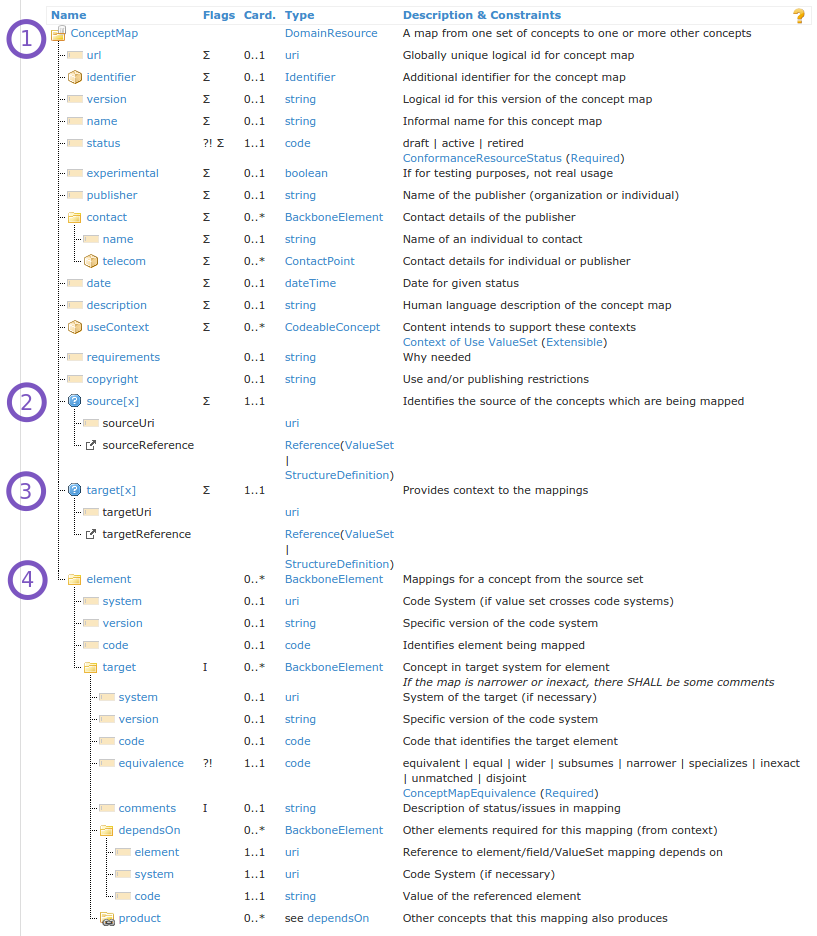
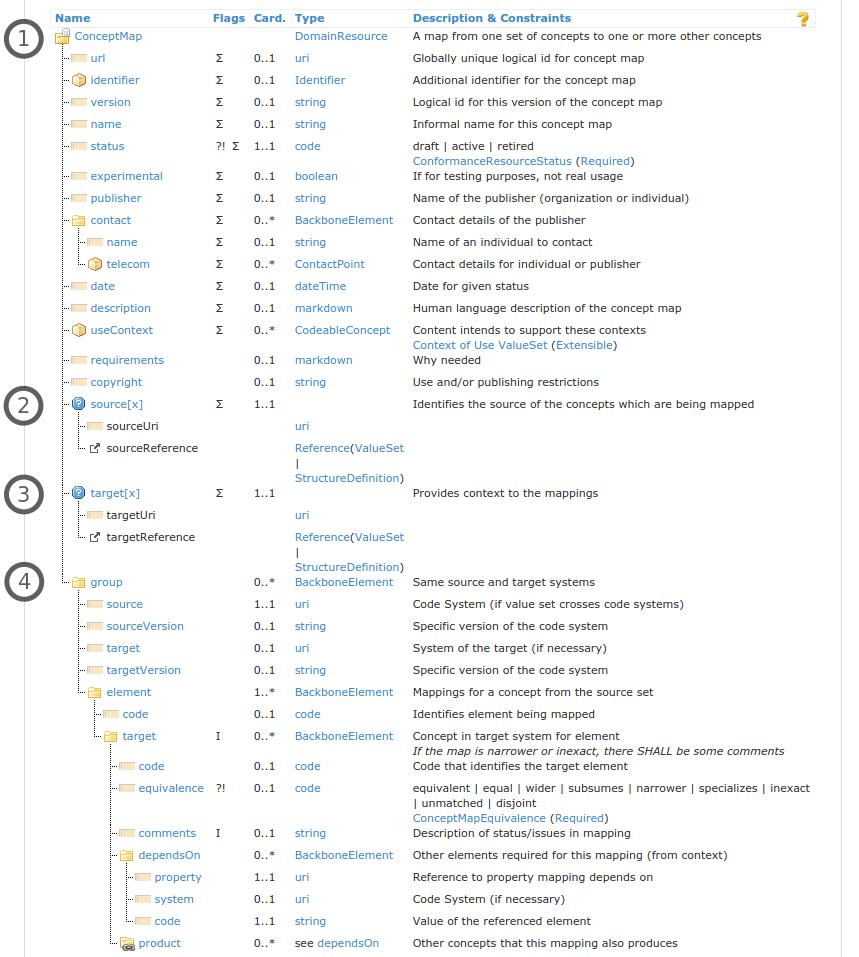
Updated ConceptMap
No servers available to take the resources, though. Ontoserver is still on 1.4.0 and GG's server crashes on ValueSet (https://github.com/grahamegrieve/fhirserver/issues/61)

diff --git a/conceptmap.html b/conceptmap.html
@@ -107,8 +107,8 @@
                     <div class="mdl-card mdl-cell mdl-cell--12-col-desktop mdl-cell--6-col-tablet mdl-cell--4-col-phone">
                         <div class="mdl-card__supporting-text">
                         <h4>ConceptMap tutorial</h4>
-                        <p><a href="http://hl7.org/fhir/2016May/conceptmap.html">ConceptMap</a> is a special type of a FHIR resource that allows you to establish a one-way relationship between any two things - classes in class models, data elements, or code systems. We'll use latter as an example in this tutorial to demonstrate how two concepts can be related (mapped) to each other and how their equivalence (or lack of) can be specified.</p>
-                        <note>This describes ConceptMap as it is in the latest <a href="http://hl7.org/fhir/2016May/conceptmap.html">May 2016 snapshot</a>. The latest iteration of the resource has some structural changes, such as the introduction of the <b>group</b> element, which are likely to make it into the next FHIR snapshot.</note>
+                        <p><a href="http://hl7.org/fhir/2016Sep/conceptmap.html">ConceptMap</a> is a special type of a FHIR resource that allows you to establish a one-way relationship between any two things - classes in class models, data elements, or code systems. We'll use latter as an example in this tutorial to demonstrate how two concepts can be related (mapped) to each other and how their equivalence (or lack of) can be specified.</p>
+                        <note>This describes ConceptMap as it is in the latest <a href="http://hl7.org/fhir/2016Sep/conceptmap.html">September 2016 snapshot</a>, which you should note that is different from the previous May 2016 snapshot (such as the new <a href="http://hl7.org/fhir/2016Sep/conceptmap-definitions.html#ConceptMap.group">group</a> element).</note>
                         <ul class="toc">
                             <h4>Contents</h4>
                             <!-- pr prefix stands for 'patient references'-->
@@ -120,12 +120,12 @@
                         </ul>
 
                         <h5 id="cm-about-conceptmap">Step 1: About ConceptMap</h5>
-                        <p>The <a href="http://hl7.org/fhir/2016May/conceptmap.html">ConceptMap</a> resource in general has <a href="images/conceptmap-overview.png" data-lightbox="conceptmap-overview">four parts</a> to it: 1) metadata about the resource, 2) the source of the data, 3) target the data is mapped to, and 4) the individual mappings themselves:</p>
+                        <p>The <a href="http://hl7.org/fhir/2016Sep/conceptmap.html">ConceptMap</a> resource in general has <a href="images/conceptmap-overview.png" data-lightbox="conceptmap-overview">four parts</a> to it: 1) metadata about the resource, 2) the source of the data, 3) target the data is mapped to, and 4) the groups of mappings themselves:</p>
                         <a href="images/conceptmap-overview.png" data-lightbox="conceptmap-overview"><img src="images/conceptmap-overview-thumbnail.png" class="thumbnail"/></a>
                         <p><b>Metadata</b> about the resource describes general information about the mapping - who made it, what version is it at, copyright on the content and so on.</p>
-                        <p><b>Source</b> of the data is a reference, or the entire definition inline of the dataset that you are mapping from. Remember that ConceptMap is a one-way mapping - so there's always a clear source and a target.</p>
-                        <p><b>Target</b> of the data is similar to source - it is either a reference to the dataset or its inline definition.</p>
-                        <p>Finally comes the meat of the matter - the <b>mappings</b> themselves. Each mapping (called as 'element' in the data) can have one or more <b>target</b> elements, which specify a connection between a code from one valueset to code(s) in another valueset. The type of connection is described by the mandatory <b>equivalence</b> property - the connection could say that the two elements are exactly the same, one concept encompasses more (or less) meaning than the other, or the two concepts aren't related at all even. The full list of equivalence values is available in the <a href="http://hl7.org/fhir/2016May/valueset-concept-map-equivalence.html">ConceptMap Equivalence</a> valueset.</p>
+                        <p><b>Source</b> of the data is a reference to the dataset that you are mapping from. Remember that ConceptMap is a one-way mapping - so there's always a clear source and a target.</p>
+                        <p><b>Target</b> of the data is similar to source - it is a reference to the dataset.</p>
+                        <p>Finally comes the meat of the matter - the <b>mappings</b> themselves, organised in groups. Each mapping (called as 'element' in the data) can have one or more <b>target</b> elements, which specify a connection between a code from one valueset to code(s) in another valueset. The type/strength of connection is described by the <b>equivalence</b> property - the connection could say that the two elements are exactly the same, one concept encompasses more (or less) meaning than the other, or the two concepts aren't related at all even. The full list of equivalence values is available in the <a href="http://hl7.org/fhir/2016Sep/valueset-concept-map-equivalence.html">ConceptMap Equivalence</a> valueset.</p>
                         
                         <h5 id="cm-sample-data-mapping">Step 2: Sample data mapping</h5>
                         <p>As an example, let's say you have a (very poorly designed) valueset from the codesystem representing employee presence at work with just three codes: present, not-present, and sick that is in use by your system. You start importing data from a new system which has finer granularity:</p>
@@ -159,7 +159,7 @@
     <td>jury-duty</td>
   </tr>
 </table>
-                    <p>Thus, you need to create a FHIR map connecting new codes you're getting to ones you already have, making use of the available <a href="http://hl7.org/fhir/2016May/valueset-concept-map-equivalence.html">equivalence</a> values. You come up with this sample mapping that maps in the direction from the new system to the current valueset:</p>
+                    <p>Thus, you need to create a FHIR map connecting new codes you're getting to ones you already have, making use of the available <a href="http://hl7.org/fhir/2016Sep/valueset-concept-map-equivalence.html">equivalence</a> values. You come up with this sample mapping that maps in the direction from the new system to the current valueset:</p>
                         <table class="conceptmap-table">
   <tr>
     <th>New system's valueset</th>
@@ -203,7 +203,7 @@
   </tr>
 </table>
                         <h5 id="cm-sample-resource">Step 3: Sample resources</h5>
-							<p>A sample <a href="http://hl7.org/fhir/2016May/conceptmap.html">ConceptMap</a> resource containing these mappings is <a href="resource-examples/ConceptMap-resources/ConceptMap.xml">available here</a>. The supporting  <a href="resource-examples/ConceptMap-resources/Codesystem.xml">CodeSystem</a>, <a href="resource-examples/ConceptMap-resources/Old-ValueSet.xml">old ValueSet</a> and  <a href="resource-examples/ConceptMap-resources/New-ValueSet.xml">new ValueSet</a> are available as well.</p>
+							<p>A sample <a href="resource-examples/ConceptMap-resources/ConceptMap.xml">ConceptMap</a> resource containing these mappings is available. The supporting  <a href="resource-examples/ConceptMap-resources/Codesystem.xml">CodeSystem</a>, <a href="resource-examples/ConceptMap-resources/Old-ValueSet.xml">old ValueSet</a> and  <a href="resource-examples/ConceptMap-resources/New-ValueSet.xml">new ValueSet</a> are available as well.</p>
 <!--
 
 							<p>Press the button below to upload it to the FHIR server!</p>
@@ -227,11 +227,11 @@
                         <h5 id="cm-advanced-features">Step 4: Advanced features</h5>
                         <p>ConceptMap is actually pretty powerful, and besides the basic code-to-code mapping described above, it also supports the following usecases:</p>
                         <ul>
-                            <li>Mapping one code to many codes at once given the same equivalence property (by utilising multiple <a href="http://hl7.org/fhir/2016May/conceptmap-definitions.html#ConceptMap.element.target">target</a> properties within one <a href="http://hl7.org/fhir/2016May/conceptmap-definitions.html#ConceptMap.element">element</a> property)</li>
-                            <li>Having a dependency for a mapping - a mapping could only be applicable if a selected element exists in the data and has the specified value (see <a href="http://hl7.org/fhir/2016May/conceptmap-definitions.html#ConceptMap.element.target.dependsOn">dependsOn</a>)</li>
+                            <li>Mapping one code to many codes at once given the same equivalence property (by utilising multiple <a href="http://hl7.org/fhir/2016Sep/conceptmap-definitions.html#ConceptMap.element.target">target</a> properties within one <a href="http://hl7.org/fhir/2016Sep/conceptmap-definitions.html#ConceptMap.element">element</a> property)</li>
+                            <li>Having a dependency for a mapping - a mapping could only be applicable if a selected element exists in the data and has the specified value (see <a href="http://hl7.org/fhir/2016Sep/conceptmap-definitions.html#ConceptMap.group.element.target.dependsOn">dependsOn</a>)</li>
                         </ul>
                         <h5 id="cm-translate-operation">Step 5: $translate operation</h5>
-							<p>The <a href="http://hl7.org/fhir/2016May/conceptmap-operations.html#translate">$translate</a> operation allows you to utilise a FHIR terminology server to get an equivalent code as specified by a ConceptMap mapping. To use it, you need to provide the conceptmap you'd like to use, the input code and its codesystem, and the valueset you'd like to get a translation from. Try uploading all four sample resources mentioned above (a codesystem, two valuesets, and a conceptmap) via Postman to a FHIR terminology server (e.g., <code>http://ontoserver.csiro.au/stu3/</code>) and use the translate operation with this template:</p>
+							<p>The <a href="http://hl7.org/fhir/2016Sep/conceptmap-operations.html#translate">$translate</a> operation allows you to utilise a FHIR terminology server to get an equivalent code as specified by a ConceptMap mapping. To use it, you need to provide the conceptmap you'd like to use, the input code and its codesystem, and the valueset you'd like to get a translation from. Try uploading all four sample resources mentioned above (a codesystem, two valuesets, and a conceptmap) via Postman to a FHIR terminology server (e.g., <code>http://ontoserver.csiro.au/stu3/</code>) and use the translate operation with this template:</p>
 							<code>http://my-terminology-server.org/fhir/ConceptMap/servers-conceptmap-id/$translate?code=my-code&system=codes-codesystem&target=target-valueset</code>
 							<p>Here's a sample code you could try, once you've uploaded your conceptmap to a terminology server of choice:</p>
 							<code>http://ontoserver.csiro.au/stu3/ConceptMap/servers-conceptmap-id/$translate?code=in-office&system=urn:uuid:bb6efb79-2b93-4569-a51e-6fcf103b6e9a&target=4a211242-088a-4c33-a189-77d71c7f81e2</code>
